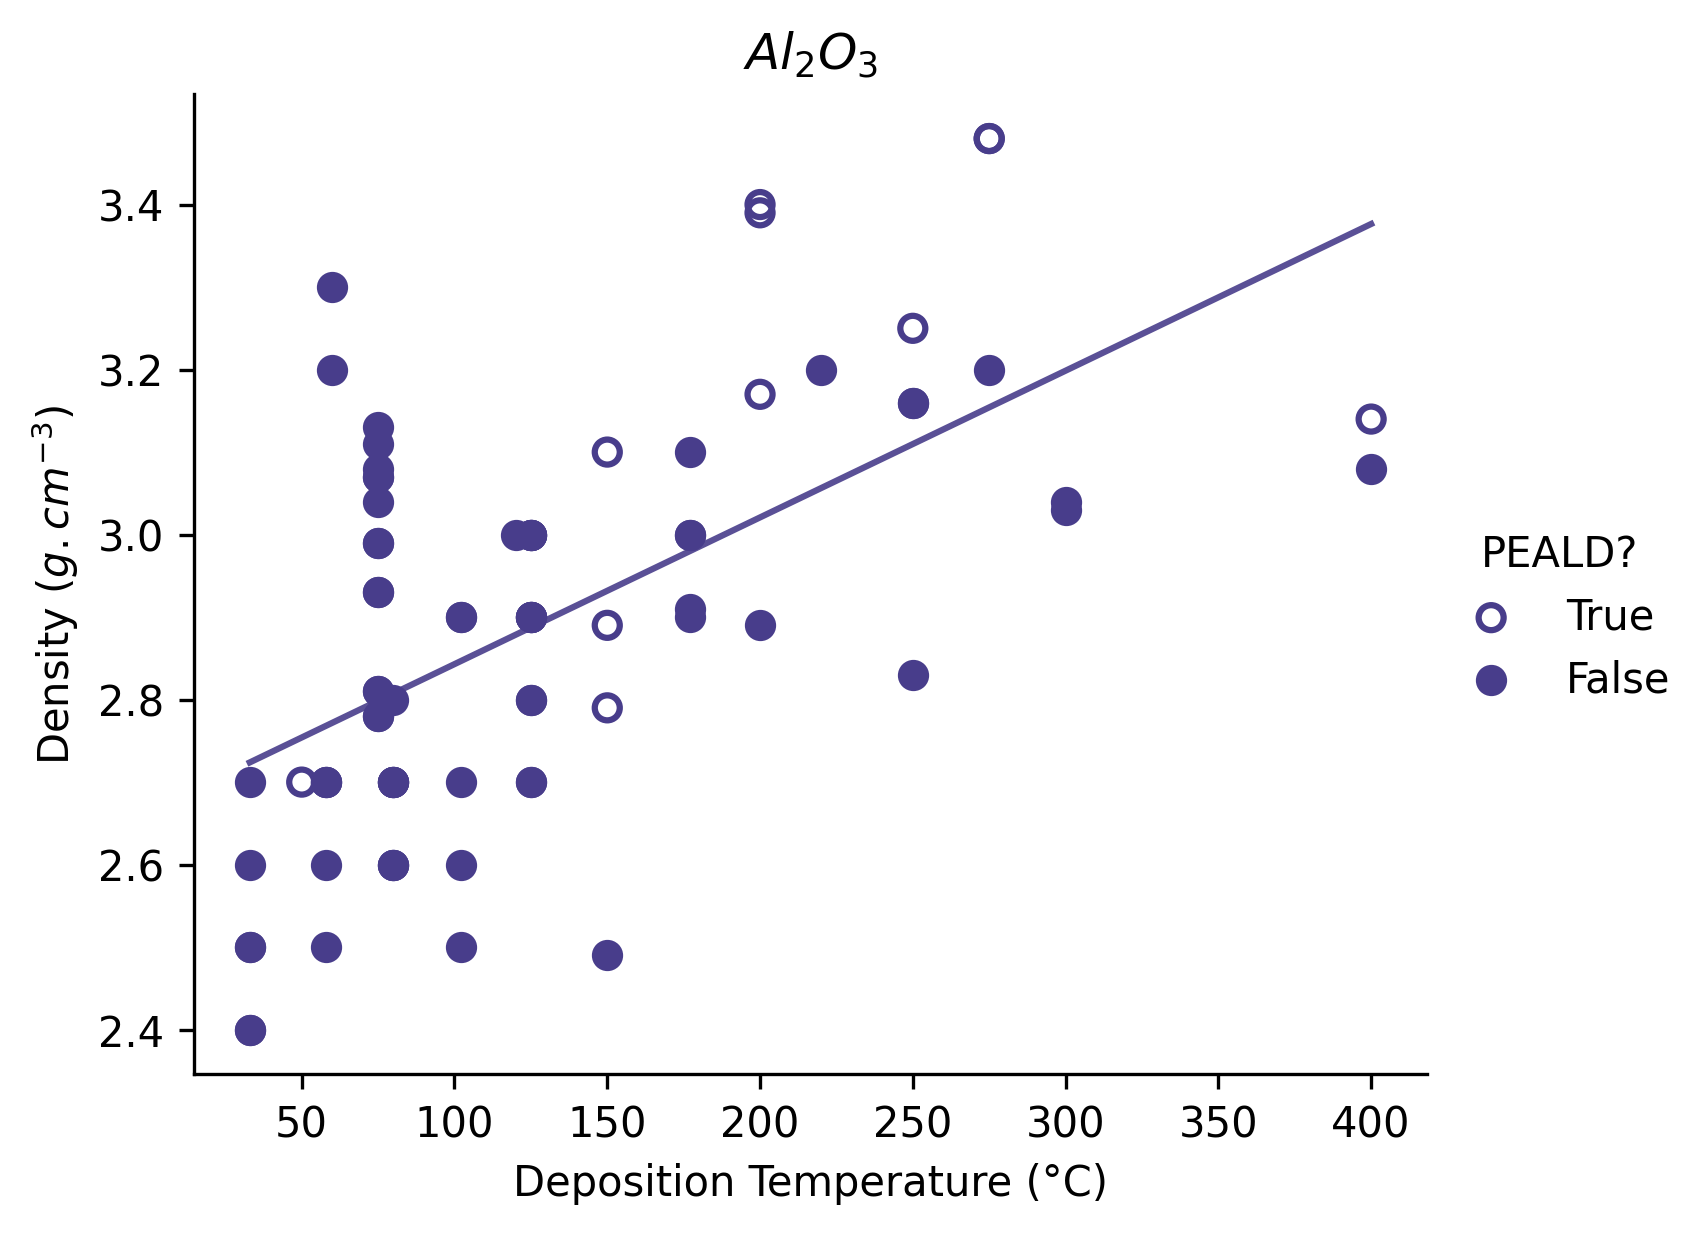
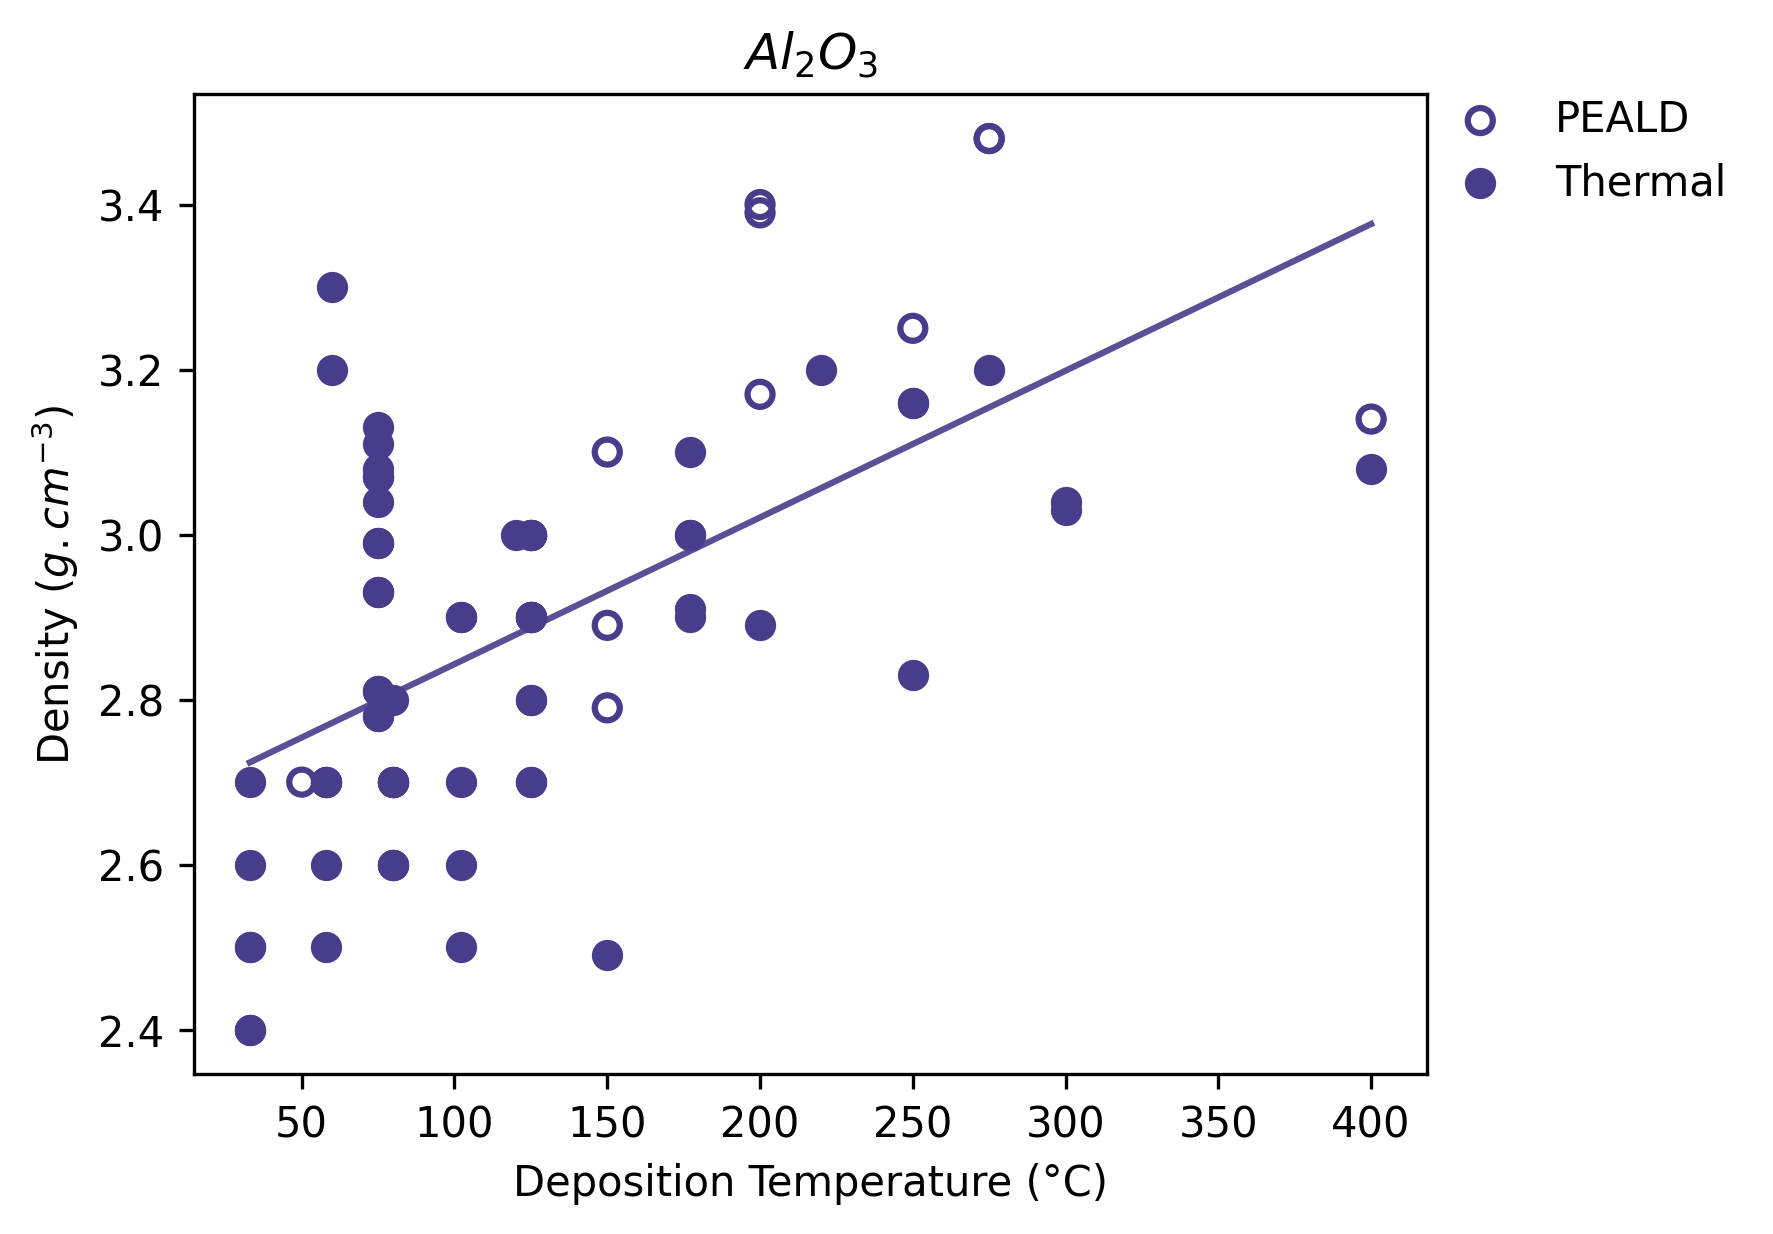
ald solo plot styles

diff --git a/scripts/ald-density-temperature.py b/scripts/ald-density-temperature.py
@@ -46,6 +46,7 @@ cols = {"Tdep (°C)": "Deposition Temperature (°C)",
 x_tdep="Deposition Temperature (°C)"
 y_density="Density $(g.cm^{-3})$"
 z_material="Material"
+col_peald = "PEALD?"
 
 INPUT_MATERIAL = "Al2O3"
 
@@ -60,22 +61,44 @@ df[z_material] = df[z_material].str.strip() # Remove leading and trailing whites
 
 filt_material = df[z_material].str.contains(INPUT_MATERIAL)
 df_material = df.loc[filt_material]
+# df_material[col_peald] = df_material[col_peald].map({True: "PEALD", False: "Thermal"})
 print(df_material.info())
 
 
 # PLOT
+# plt.rc('axes', linewidth=1.5, edgecolor="red")
 
-def plot_data(df, x, y, hue, **kwargs):
-    cl="darkslateblue"
 
-    fig = sns.lmplot(data=df, x=x, y=y, 
-        hue=hue, hue_order=[True, False], markers=["^", "v"], palette=["orangered", "navy"],
-        ci=None, fit_reg=False,
-        scatter_kws={"s": 45, "alpha":0.5}, 
-        line_kws={"lw":1.5, "alpha":0.5})
+
+def plot_data(df, x, y, hue, info={}):    
+    hue_order = info.get("hue_order", None)
+    palette = info.get("palette", ["orangered", "navy"])
+    markers = info.get("markers", ["d", "s"])
+
+    scatter_kws = {"s": 45, "alpha":0.65}
+    line_kws = {"lw": 1.5, "alpha":0.70, "color": "darkslateblue"}
+
+    scatter_kws.update(info.get("scatter_kws", {}))
+    line_kws.update(info.get("line_kws", {}))
+
+    fig = sns.lmplot(data=df, x=x, y=y,
+        hue=hue, hue_order=hue_order, markers=markers, palette=palette,
+        ci=None, fit_reg=False, scatter_kws=scatter_kws)
+
+    sns.despine(top=False, right=False, left=False, bottom=False)
 
     sns.regplot(data=df, x=x, y=y, scatter=False, ci=None, 
-        line_kws={"lw":1.5, "alpha":0.7, "color":cl}).set(title=daz.create_latex_labels(kwargs.get("title")))
+        line_kws=line_kws).set(title=daz.create_latex_labels(info.get("title", "")))
+
+
+    # LEGEND
+    fig._legend.set_title(info.get("legend_title", ''))
+    if new_labels := info.get('legend_labels', False):
+        for t, l in zip(fig._legend.texts, new_labels):
+            t.set_text(l)
+
+    sns.move_legend(fig, "upper left", bbox_to_anchor=(0.83, 0.99))
+
 
     return fig
 
@@ -87,19 +110,36 @@ def plot_data2(df, x, y, hue, **kwargs):
         data=df,
         hue=hue, hue_order=[True, False],
         height=4, aspect=1.25,
-        hue_kws={"edgecolor": [c1,c2], 'facecolor':["none", c2], "markers":["^", "v"]},
+        hue_kws={"edgecolor": [c1,c2], 'facecolor':["none", c2], "markers":["^", "s"]},
     )
+
+    sns.despine(top=False, right=False, left=False, bottom=False)
+
     g.map(sns.scatterplot, x, y, linewidth=1.5, alpha=1)
     g.add_legend()
 
 
     sns.regplot(data=df, x=x, y=y, scatter=False, ci=None, 
         line_kws={"lw":1.5, "alpha":0.9, "color":c2}).set(title=daz.create_latex_labels(kwargs.get("title")))
+    
+    # print(sns.axes_style())
+
+    # LEGEND
+    g._legend.set_title(info.get("legend_title", ''))
+    if new_labels := info.get('legend_labels', False):
+        for t, l in zip(g._legend.texts, new_labels):
+            t.set_text(l)
+
+    sns.move_legend(g, "upper left", bbox_to_anchor=(0.83, 0.99))
 
 
     return g
 
-fig = plot_data(df_material, x=x_tdep, y=y_density, hue="PEALD?", title=INPUT_MATERIAL)
+info = dict(title=INPUT_MATERIAL, 
+    legend_labels=['PEALD', 'Thermal'], hue_order = [True, False], 
+    palette = ["orangered", "navy"])
+
+fig = plot_data(df_material, x=x_tdep, y=y_density, hue="PEALD?", info=info)
 fig.savefig('plots/plot4.png', dpi=300, bbox_inches="tight")
 
 
